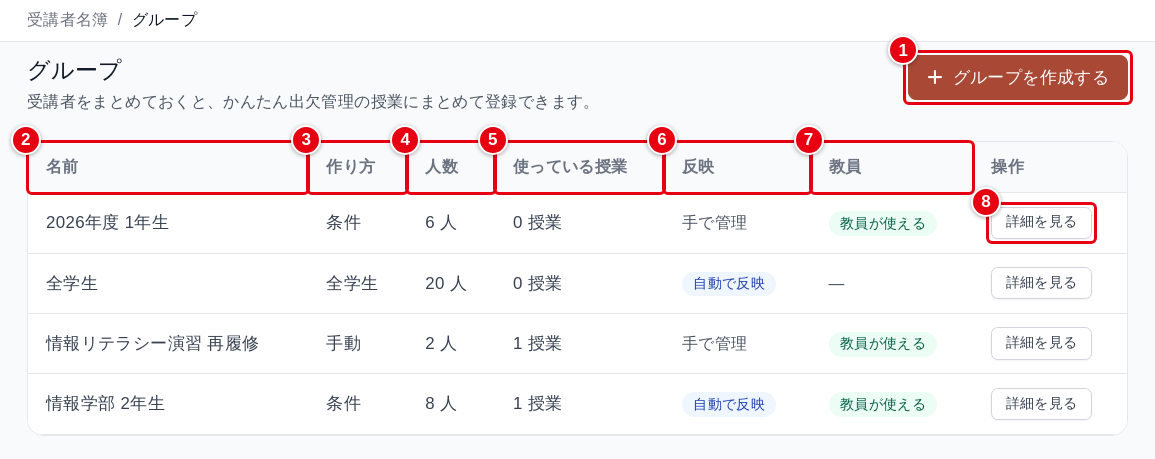
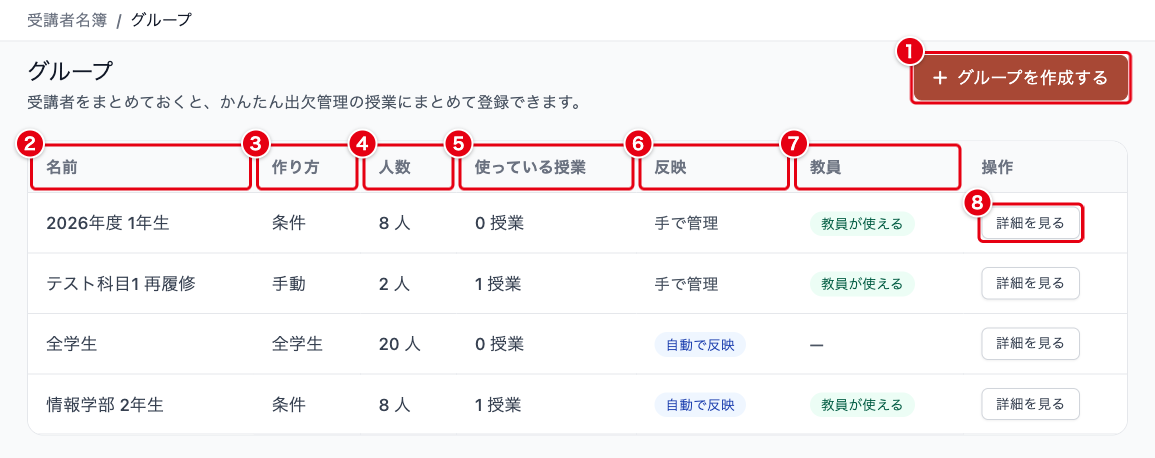
docs(roster): 実在しそうな人名が写っていた図と名簿ファイルの例を、テスト用の名前に置き換える
公開するマニュアルなので、受講者名簿のページから実在しそうな人名を外す。
⚠ SEC の本番リリース後に release/public へ公開すること。

- 名簿ファイルの例の行を「S2026001,テスト,学生1,…」にする
- 図: 撮り直し 6 枚 (v2/02, 07, 08, 09, 10, 11)。学生は「テスト学生N」。08 は人名を含まないが、
  09・10 と同じグループ名 (「テスト科目1 再履修」「情報学部 2年生」など) にそろえるため撮り直した。
  どの図も切り出しと番号の数・位置は表に合わせた
- 撮影のデータはローカル環境 (issues-1003) の dev DB の架空の組織「テスト大学」に、受講者名簿の
  画面 (入力項目の追加、名簿ファイルの取り込み、グループの作成) から作った。02 は表の説明どおり
  「招待を送る」が次の手順になる状態で撮るため、この組織では受講者名簿の招待を有効にしている

Claude-Session: https://claude.ai/code/session_0141m1VoZ3eYLk5tnmGAXCNp

diff --git a/docs/roster/roster-v2.md b/docs/roster/roster-v2.md
@@ -157,7 +157,7 @@
 
 ```
 student_id_number,last_name_kanji,first_name_kanji,学年,学部,ゼミ
-S2026001,芦田,悠真,2,情報学部,データ分析ゼミ
+S2026001,テスト,学生1,2,情報学部,データ分析ゼミ
 ```
 
 見出しにしなかった項目は、登録済みの値を変えません。
